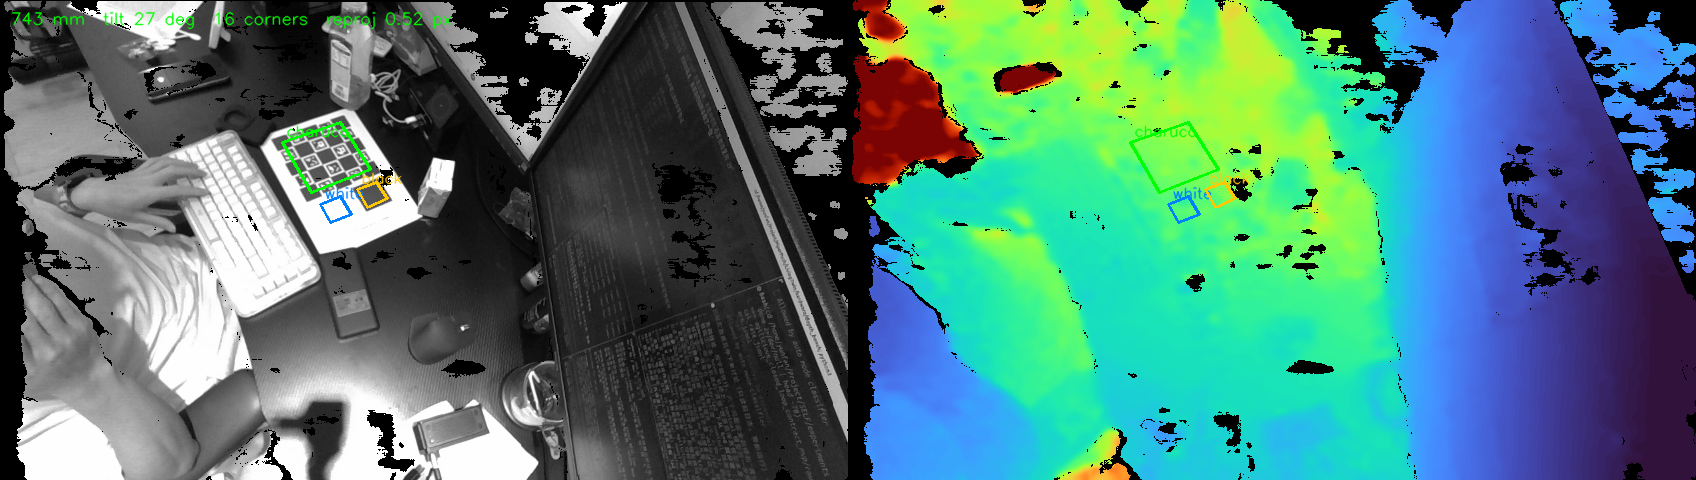
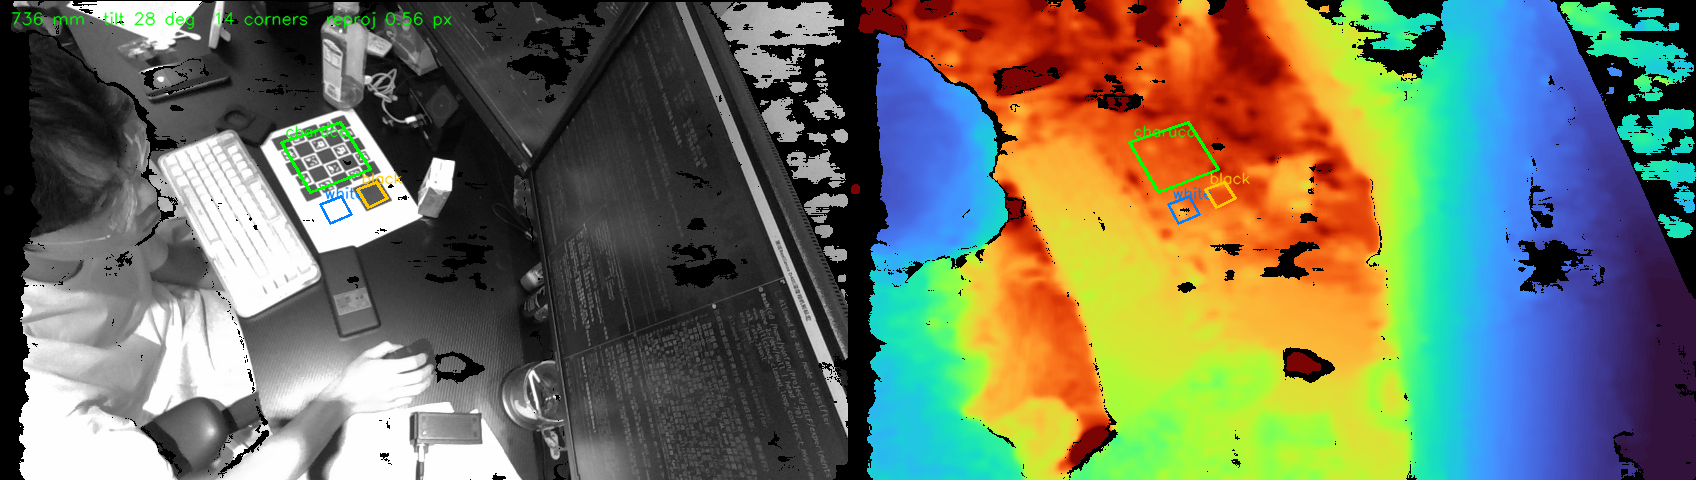
A queue that assigns cards as they free, instead of pinning shards to them
Modulo sharding pins shard k to GPU k, which is right when the box is yours.
Another project took five of the eight cards between one wave and the next, and
five pinned shards then waited for cards that were busy for hours while three
cards sat idle with eight jobs queued behind them.

The queue hands each job to the same wm1_adapt.sh as a one-job plan, so the
skip-if-done, the lock, the checkpoint assertion and the evaluation loop are the
ones already tested rather than a second copy.  A job is done when its
checkpoint pointer and all six evaluations exist, so the queue is restartable.

diff --git a/scripts/wm1_queue.py b/scripts/wm1_queue.py
@@ -1,0 +1,126 @@
+"""Run an adaptation plan on whichever GPUs are free, as they become free.
+
+    python scripts/wm1_queue.py --plan results/wm1_latency/adapt/formal.json
+
+`wm1_adapt.sh` shards by modulo and pins shard *k* to GPU *k*, which is right
+when the box is yours. It is wrong when it is not: another project took five of
+the eight cards between one wave of this phase and the next, and five pinned
+shards then sat waiting for cards that were busy for hours while three cards
+went idle with eight jobs still queued.
+
+So: no pinning. A job goes to whatever card has room, one job per card, and a
+card that frees up gets the next pending job. Each job is handed to the same
+`wm1_adapt.sh` as a one-job plan, so the skip-if-done, lock, checkpoint
+assertion and evaluation logic are the ones already tested rather than a second
+copy of them.
+
+Restartable. A job counts as done when its checkpoint pointer and all six
+evaluations exist, so killing this and starting it again picks up where it
+stopped.
+"""
+
+from __future__ import annotations
+
+import argparse
+import json
+import subprocess
+import time
+from pathlib import Path
+
+ADAPT = Path("results/wm1_latency/adapt")
+
+
+def gpu_free_mib() -> dict[int, int]:
+  try:
+    out = subprocess.run(
+      ["nvidia-smi", "--query-gpu=index,memory.free",
+       "--format=csv,noheader,nounits"],
+      capture_output=True, text=True, timeout=30).stdout
+  except Exception:
+    return {}
+  free = {}
+  for line in out.strip().splitlines():
+    try:
+      i, m = (x.strip() for x in line.split(","))
+      free[int(i)] = int(m)
+    except ValueError:
+      continue
+  return free
+
+
+def is_done(tag: str) -> bool:
+  if not (ADAPT / f"{tag}.ckpt").exists():
+    return False
+  return all((ADAPT / f"{tag}_{kind}__r{r}.json").exists()
+             for kind in ("target", "retention") for r in range(3))
+
+
+def main() -> int:
+  p = argparse.ArgumentParser()
+  p.add_argument("--plan", required=True)
+  p.add_argument("--min-free-mib", type=int, default=70000)
+  p.add_argument("--poll", type=int, default=60)
+  p.add_argument("--max-concurrent", type=int, default=8)
+  p.add_argument("--gpus", default=None,
+                 help="comma-separated allow-list; default every visible card")
+  a = p.parse_args()
+
+  plan = json.loads(Path(a.plan).read_text())
+  jobs = plan["jobs"]
+  allowed = ([int(x) for x in a.gpus.split(",")] if a.gpus
+             else sorted(gpu_free_mib()))
+  print(f"  {len(jobs)} jobs, cards {allowed}, "
+        f"need {a.min_free_mib} MiB free", flush=True)
+
+  running: dict[int, tuple] = {}      # gpu -> (Popen, tag, started)
+  t0 = time.time()
+  while True:
+    for gpu in list(running):
+      proc, tag, started = running[gpu]
+      if proc.poll() is None:
+        continue
+      mark = "ok" if proc.returncode == 0 and is_done(tag) else "FAILED"
+      print(f"  [{(time.time() - t0) / 60:6.1f} min] cuda:{gpu} {tag} {mark} "
+            f"(rc={proc.returncode}, {(time.time() - started) / 60:.1f} min)",
+            flush=True)
+      del running[gpu]
+
+    pending = [j for j in jobs if not is_done(j["tag"])
+               and j["tag"] not in {t for _, t, _ in running.values()}]
+    if not pending and not running:
+      print(f"  all {len(jobs)} jobs done in "
+            f"{(time.time() - t0) / 60:.1f} min", flush=True)
+      return 0
+
+    if len(running) < a.max_concurrent:
+      free = gpu_free_mib()
+      for job in pending:
+        cand = [g for g in allowed
+                if g not in running and free.get(g, 0) >= a.min_free_mib]
+        if not cand:
+          break
+        gpu = max(cand, key=lambda g: free[g])
+        one = ADAPT / f"queue_{job['tag']}.json"
+        one.write_text(json.dumps({**plan, "jobs": [job], "n_runs": 1}, indent=1))
+        proc = subprocess.Popen(
+          ["bash", "scripts/wm1_adapt.sh", str(gpu), "0", "1", str(one)],
+          stdout=open(f"logs/wm1_adapt/queue_{job['tag']}.log", "w"),
+          stderr=subprocess.STDOUT)
+        running[gpu] = (proc, job["tag"], time.time())
+        print(f"  [{(time.time() - t0) / 60:6.1f} min] cuda:{gpu} <- "
+              f"{job['tag']} ({'+'.join(job['methods'])}), "
+              f"{free[gpu]} MiB free", flush=True)
+        # One job per card, and the freshly launched one has not allocated
+        # yet, so do not hand out this card again on this pass.
+        free[gpu] = 0
+        if len(running) >= a.max_concurrent:
+          break
+
+    if not running:
+      print(f"  [{(time.time() - t0) / 60:6.1f} min] {len(pending)} pending, "
+            f"no card with {a.min_free_mib} MiB free", flush=True)
+    time.sleep(a.poll)
+
+
+if __name__ == "__main__":
+  raise SystemExit(main())
